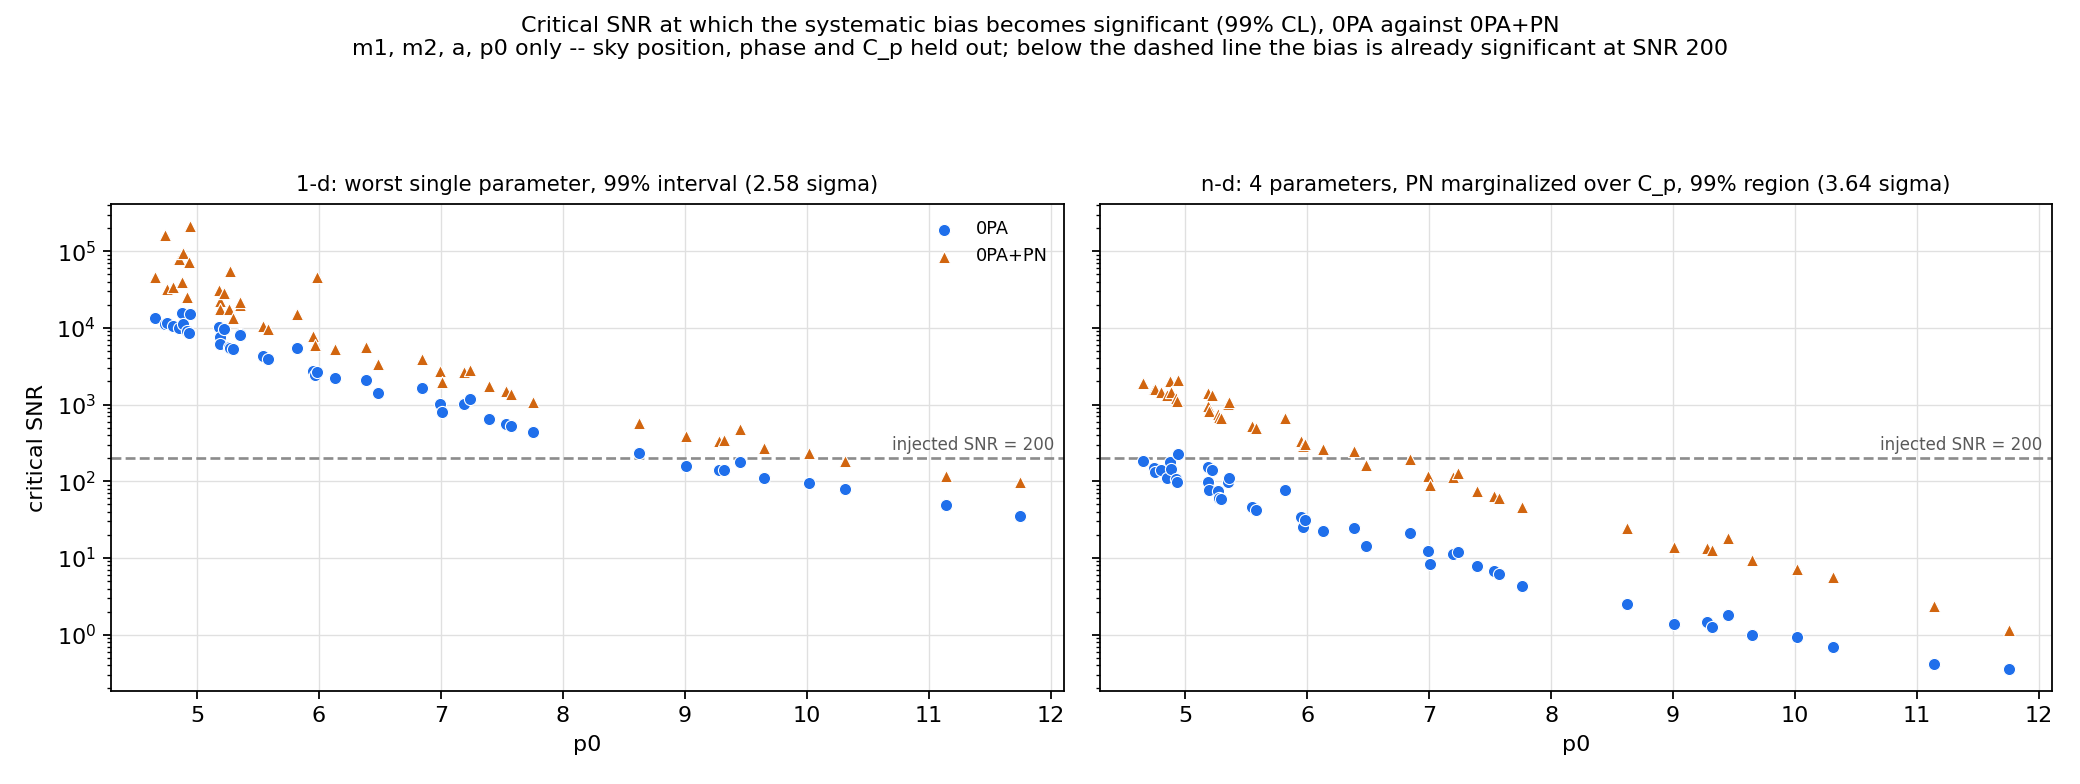
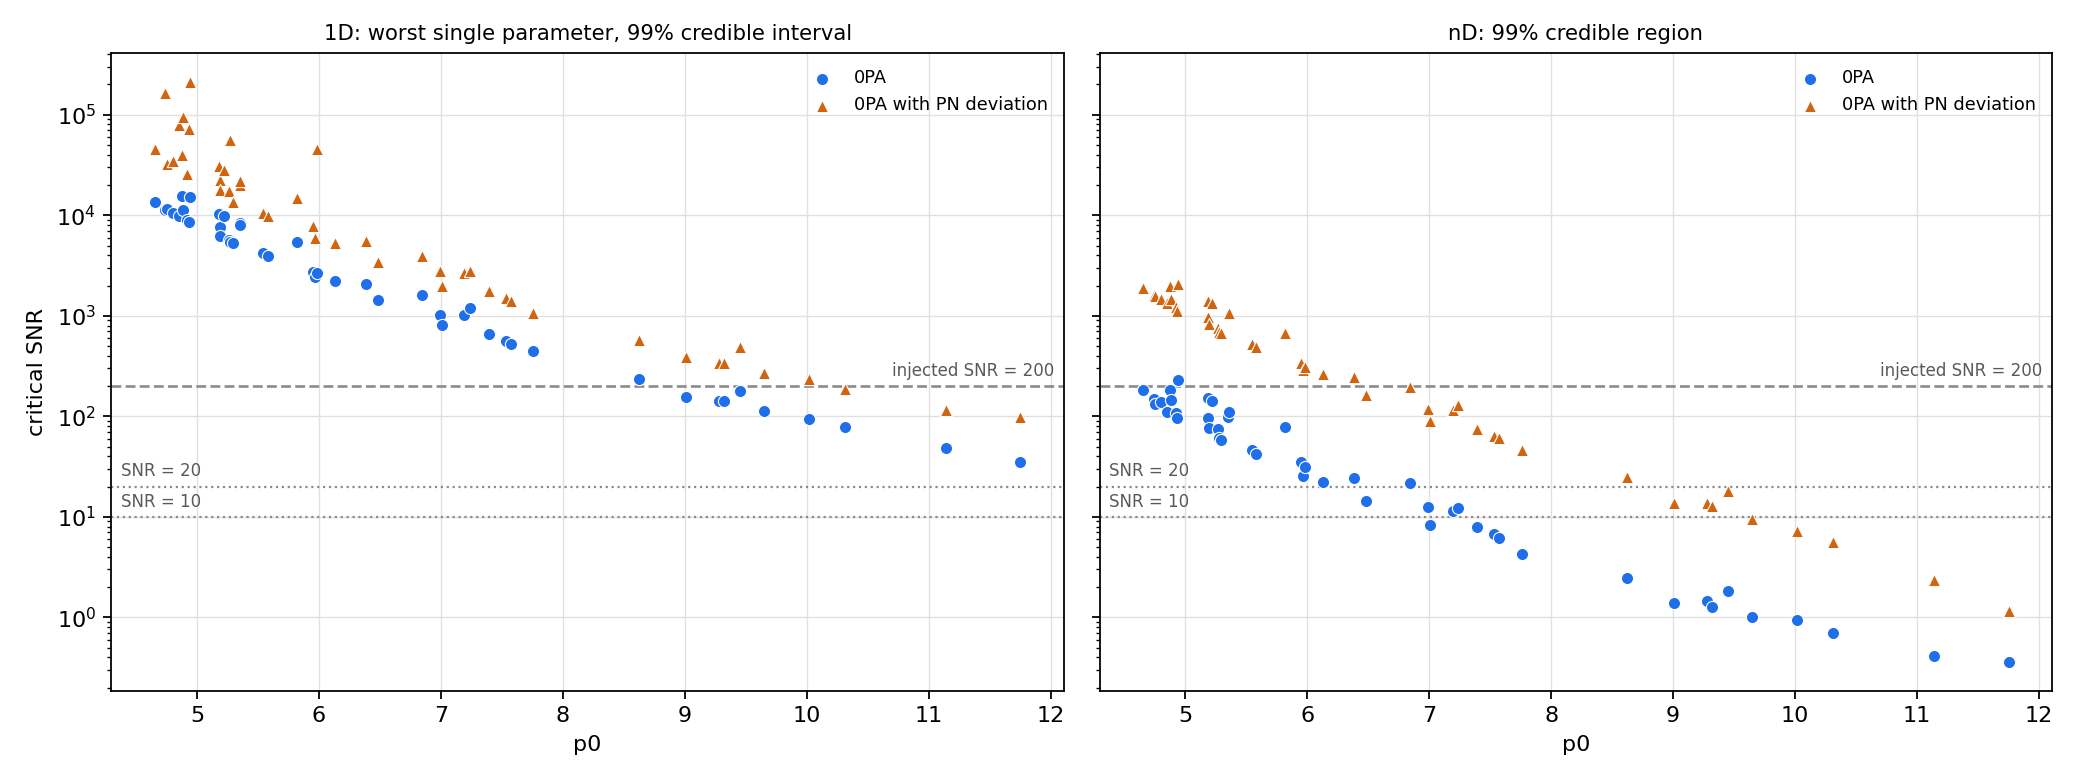
.

diff --git a/environmental_tests/combined/plot_results.py b/environmental_tests/combined/plot_results.py
@@ -51,6 +51,7 @@ MODELS = PO.MODELS                       # (name, colour, marker)
 C_BIAS, C_SIGMA = "#6f42c1", "#2a9d8f"   # bias_sigma_ratio: |bias| ratio, sigma ratio
 
 CREDIBLE = {"": 0.99, "_p90": 0.90}      # filename suffix -> level
+REF_SNRS = (20, 10)                      # extra reference lines on the critical SNR panels
 DEV_PARAMS = {"C_p", "C_e"}
 EXTRINSIC = {"qS", "phiS", "Phi_phi0"}
 BLOCKS = {                               # subfolder -> (parameters excluded, description)
@@ -151,10 +152,10 @@ def scatter_p0(ax, recs, y, colour, marker, label, s=30):
                edgecolors="white", linewidths=0.5, label=label, zorder=3)
 
 
-def models_scatter(ax, recs, value_of, s=30):
+def models_scatter(ax, recs, value_of, s=30, labels=None):
     for model, colour, marker in MODELS:
         scatter_p0(ax, recs, [value_of(r["models"][model]) for r in recs],
-                   colour, marker, model, s=s)
+                   colour, marker, (labels or {}).get(model, model), s=s)
 
 
 def log_axes(ax, xlabel="p0"):
@@ -261,24 +262,23 @@ def critical_snr(model_rec, exclude, p):
 def critical_snr_panel(recs, path, exclude, note, p):
     """Critical SNR against p0, 1-d and n-d.  Below the dashed line the bias is already
     significant at the injected SNR."""
-    k = len(kept(recs[0]["models"]["0PA"], exclude))
     fig, axes = plt.subplots(1, 2, figsize=(13.0, 4.9), sharey=True)
-    for ax, key, title in ((axes[0], "rho_1d", f"1-d: worst single parameter, "
-                                               f"{p:.0%} interval ({threshold_1d(p):.2f} sigma)"),
-                           (axes[1], "rho_nd", f"n-d: {k} parameters, PN marginalized over C_p, "
-                                               f"{p:.0%} region ({threshold_nd(p, k):.2f} sigma)")):
-        models_scatter(ax, recs, lambda m, kk=key: critical_snr(m, exclude, p)[kk])
+    for ax, key, title in ((axes[0], "rho_1d", f"1D: worst single parameter, {p:.0%} credible interval"),
+                           (axes[1], "rho_nd", f"nD: {p:.0%} credible region")):
+        models_scatter(ax, recs, lambda m, kk=key: critical_snr(m, exclude, p)[kk],
+                       labels={"0PA+PN": "0PA with PN deviation"})
         log_axes(ax)
         ax.axhline(RI.TARGET_SNR, color="0.55", lw=1.2, ls="--", zorder=1)
         ax.text(0.99, RI.TARGET_SNR * 1.15, f"injected SNR = {RI.TARGET_SNR:g}", ha="right",
                 va="bottom", fontsize=7.5, color="0.35", transform=ax.get_yaxis_transform())
+        for snr in REF_SNRS:
+            ax.axhline(snr, color="0.55", lw=1.0, ls=":", zorder=1)
+            ax.text(0.01, snr * 1.15, f"SNR = {snr:g}", ha="left", va="bottom", fontsize=7.5,
+                    color="0.35", transform=ax.get_yaxis_transform())
         ax.set_title(title, fontsize=9.5)
+        ax.legend(fontsize=8, frameon=False)
     axes[0].set_ylabel("critical SNR")
-    axes[0].legend(fontsize=8, frameon=False)
-    fig.suptitle(f"Critical SNR at which the systematic bias becomes significant ({p:.0%} CL), "
-                 f"0PA against 0PA+PN\n{note}; below the dashed line the bias is already "
-                 f"significant at SNR {RI.TARGET_SNR:g}", fontsize=10)
-    fig.tight_layout(rect=(0, 0, 1, 0.90))
+    fig.tight_layout()
     save(fig, path)
 
 
